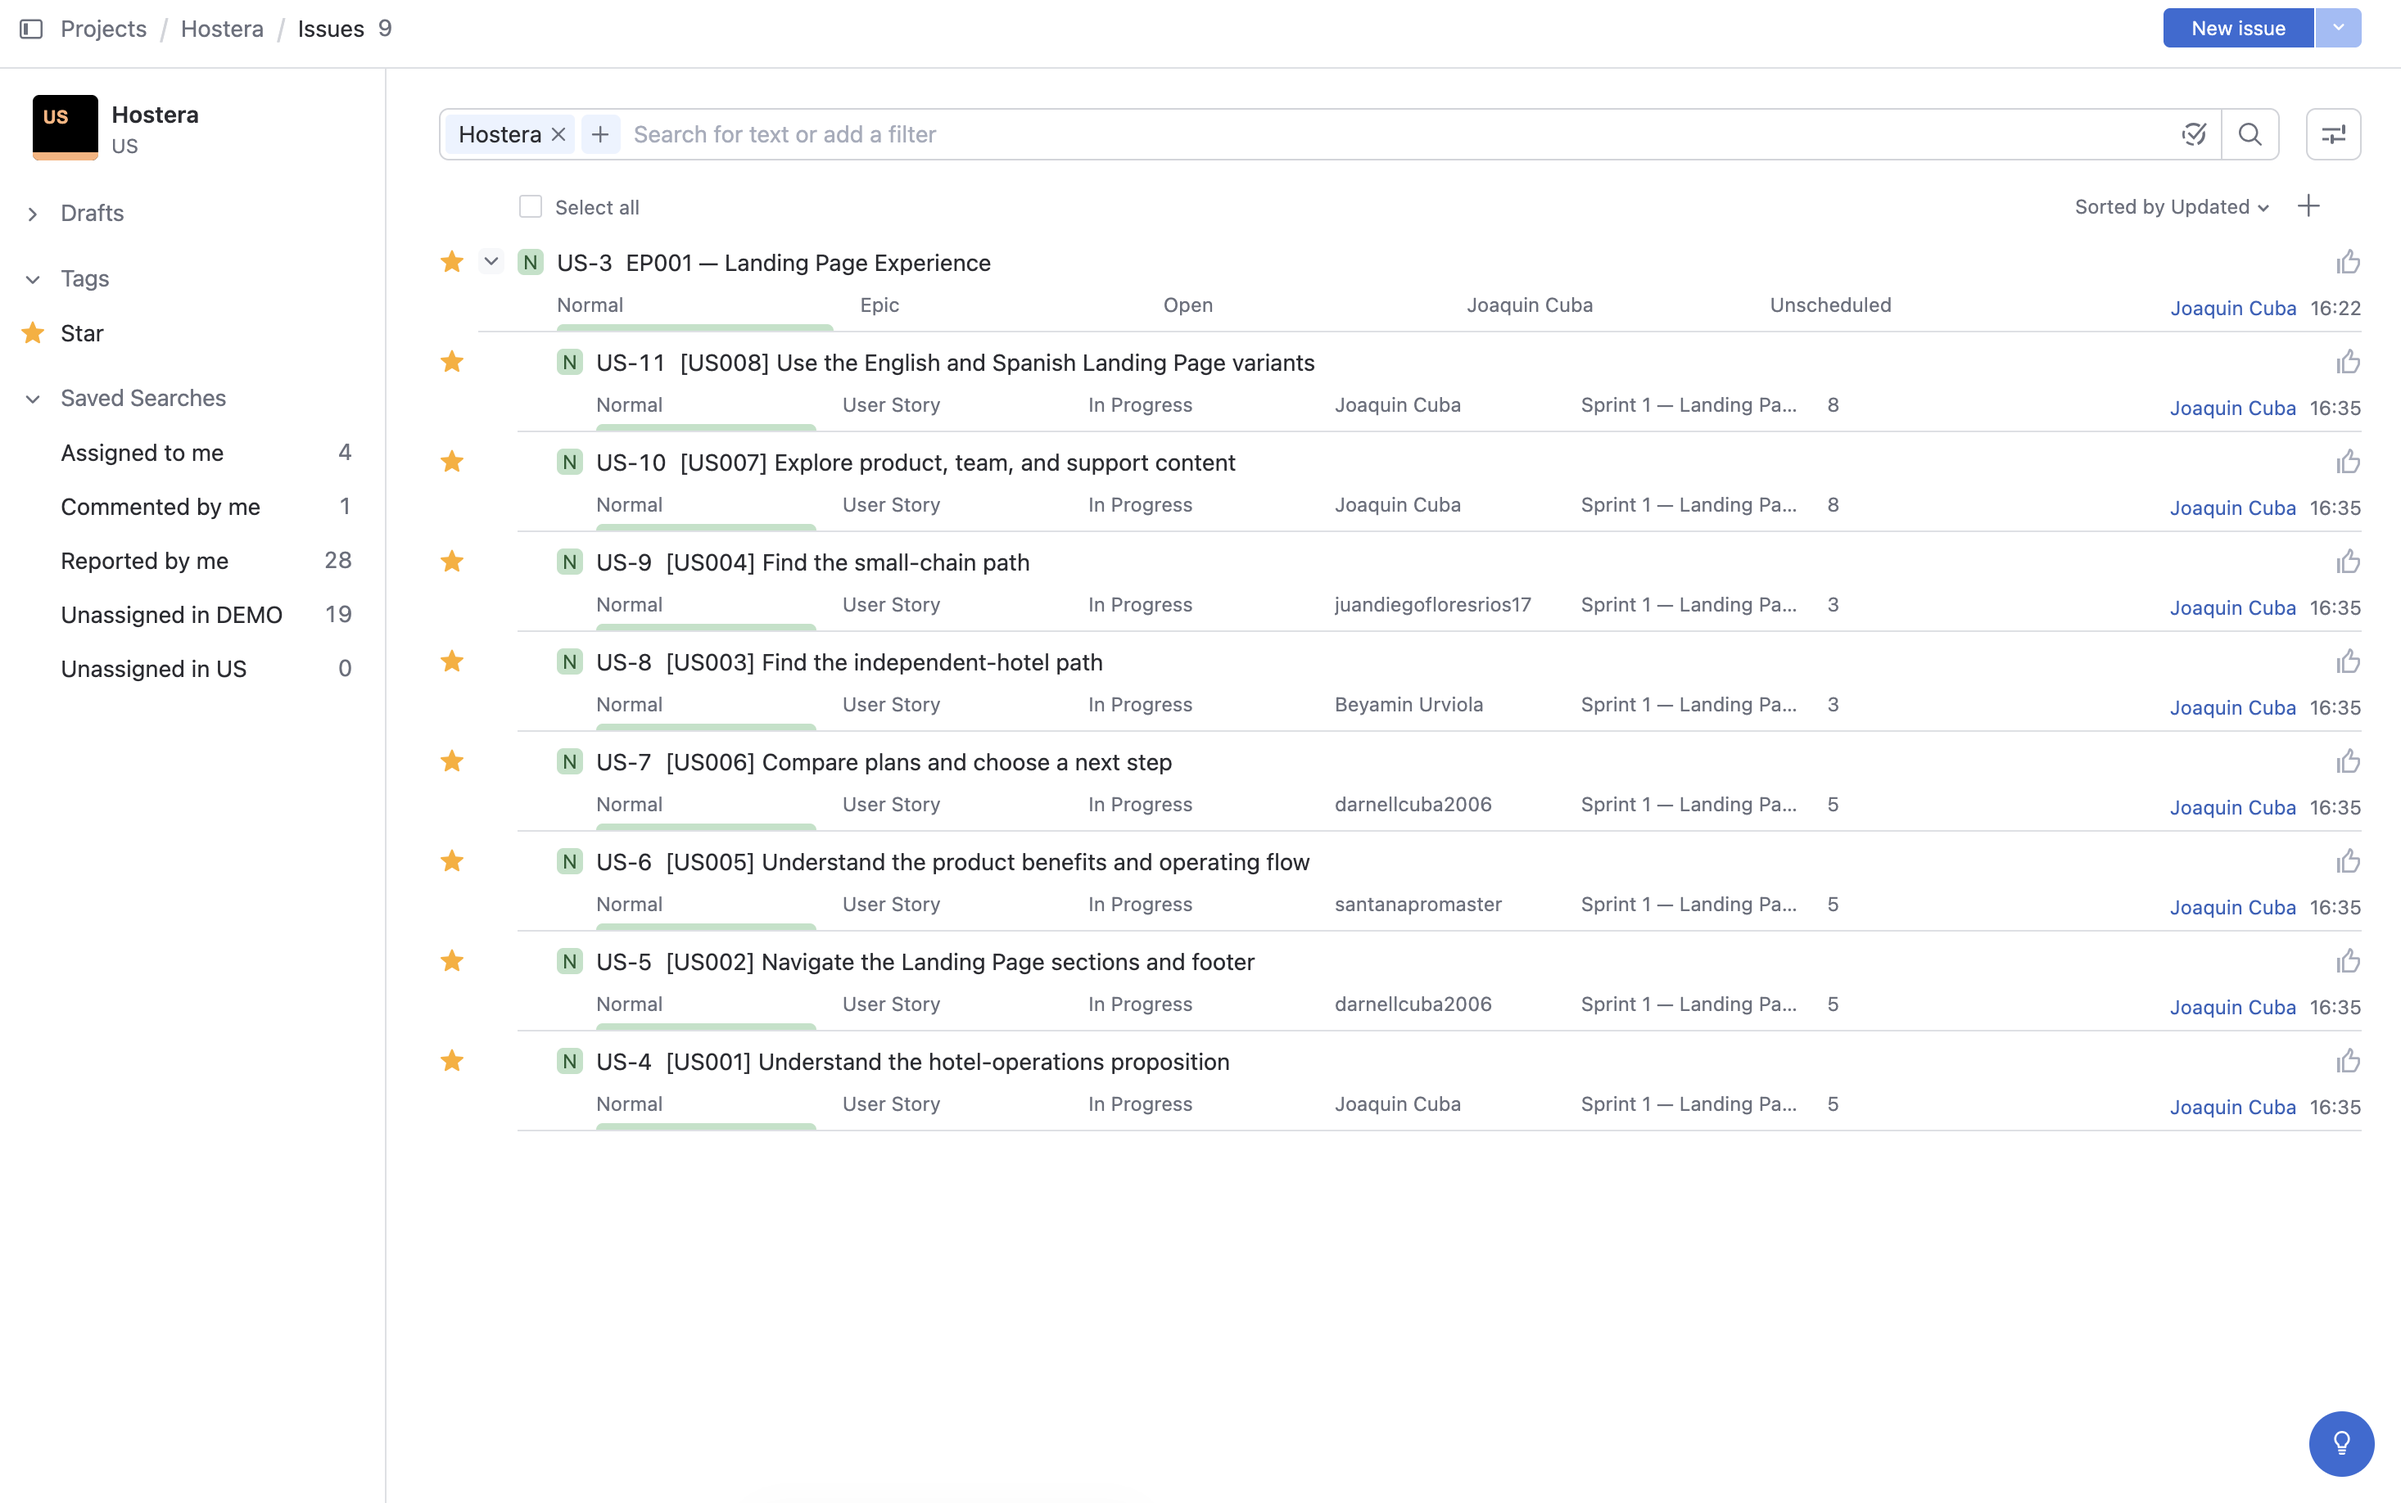
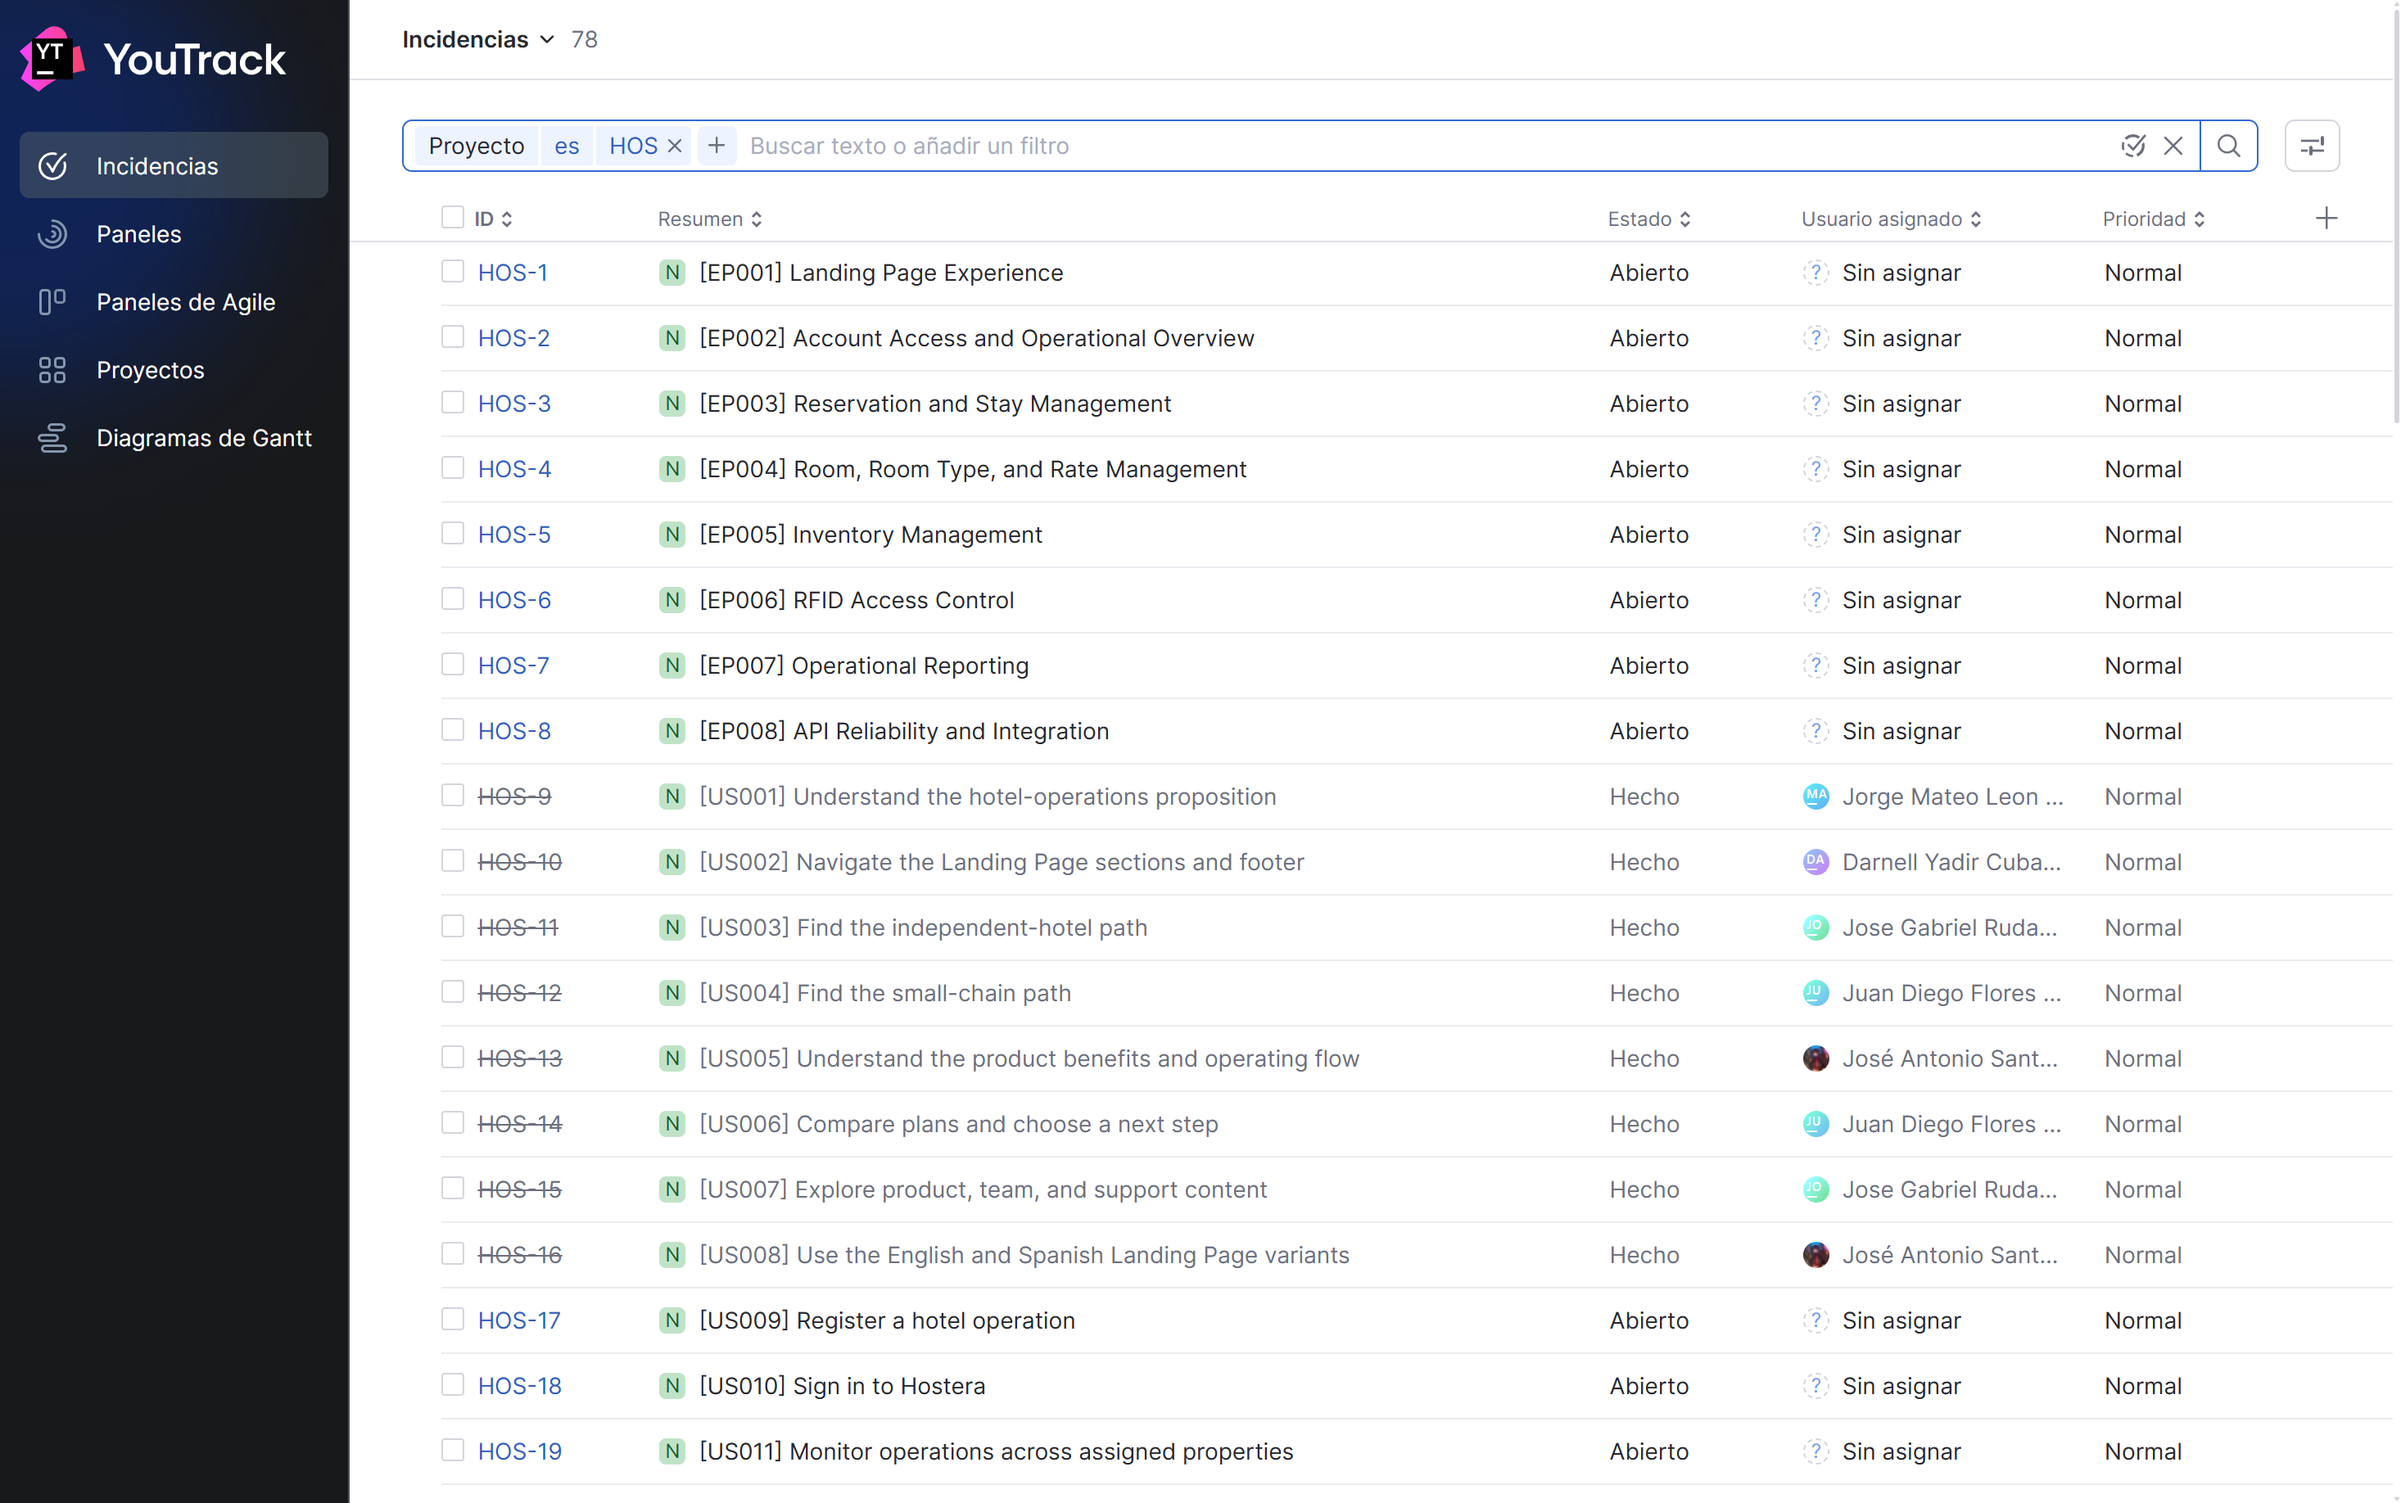
docs(tracking): migrate the YouTrack board to the team instance
Move the project tracking off the retired jqcuba.youtrack.cloud instance,
which belonged to a former member and held only 9 of the 78 backlog items
documented in this report, four of them assigned to people who left the
team.

Rebuild the tracker at santanapromaster.youtrack.cloud in project HOS from
the report itself: 8 epics, 33 user stories, 17 technical stories and the
20 Sprint 1 work-items, with their story points, states, assignees and the
epic and story hierarchy.

Replace the two YouTrack screenshots, which until now were the same file
serving two different captions, and repoint the four references.

diff --git a/README.md b/README.md
@@ -1689,7 +1689,7 @@ para su seguimiento, priorización y estimación.
 
 *Figura 3.3. Listado general del Product Backlog de Hostera en YouTrack.*
 
-El Product Backlog puede consultarse en el [Agile Board de Hostera en YouTrack](https://jqcuba.youtrack.cloud/projects/US/agiles/204-1/218-5).
+El Product Backlog puede consultarse en el [proyecto Hostera en YouTrack](https://santanapromaster.youtrack.cloud/issues?q=project:%20HOS).
 
 # Capítulo IV: Product Design
 
@@ -3347,7 +3347,7 @@ las herramientas locales se instalan desde sus canales oficiales de distribució
 | Producto | Propósito en Hostera | Ruta de referencia | Convención de configuración o uso |
 | --- | --- | --- | --- |
 | GitHub | Aloja el repositorio del equipo, los repositorios de producto, los issues y el historial de revisiones. | [Repositorio del equipo Team Coworkers](https://github.com/Team-Coworkers) | Los cambios se realizan en ramas de trabajo y se integran mediante el flujo Git Flow descrito en la sección 5.1.2. |
-| YouTrack | Gestiona el Product Backlog y realiza el seguimiento de las historias de usuario y los ítems de trabajo. | [Agile Board de Hostera](https://jqcuba.youtrack.cloud/projects/US/agiles/204-1/218-5) | El trabajo se asocia a un ítem del backlog antes de su implementación y revisión. |
+| YouTrack | Gestiona el Product Backlog y realiza el seguimiento de las historias de usuario y los ítems de trabajo. | [Agile Board de Hostera](https://santanapromaster.youtrack.cloud/agiles/204-1/218-3) | El trabajo se asocia a un ítem del backlog antes de su implementación y revisión. |
 | Figma | Elabora y comparte los wireflows, prototipos y mock-ups de las aplicaciones web. | [Prototipos de las aplicaciones web de Hostera](https://www.figma.com/design/3KIDTsjWUCaBv93Xa1jxOI/Hostera-%C2%B7-Web-Application-Prototypes) | Los cambios de diseño se mantienen en los archivos compartidos de Hostera y se referencian desde el informe. |
 | UXPressia | Elabora los artefactos de impact mapping utilizados para relacionar objetivos, actores, impactos e historias de usuario. | — | Los diagramas exportados se versionan junto con el informe cuando se utilizan como evidencia. |
 | Pandoc | Convierte `README.md` y sus recursos locales en el entregable PDF. | Instalación local; la configuración y ejecución están documentadas en `README.md`. | La compilación se ejecuta con `bash scripts/build-pdf.sh`; el archivo generado `report.pdf` permanece sin seguimiento. |
@@ -3641,14 +3641,14 @@ El Sprint Backlog 1 descompone el objetivo de implementar la experiencia complet
 la Landing Page en tareas concretas para las ocho User Stories de `EP001`. El Board
 de YouTrack se utilizó para registrar las historias, sus responsables, los Story
 Points y su pertenencia al Sprint 1. La [vista pública del Board de Hostera en
-YouTrack](https://jqcuba.youtrack.cloud/projects/US/agiles/204-1/218-5) contiene el
+YouTrack](https://santanapromaster.youtrack.cloud/agiles/204-1/218-3) contiene el
 seguimiento de estas User Stories.
 
 <img src="assets/chapter-5/sprint-1-youtrack-board.png" alt="Board de YouTrack con las User Stories de la Epic 1 asignadas al Sprint 1 de la Landing Page" style="width:100%; height:auto;"/>
 
 *Figura 5.2. Board de YouTrack con las User Stories asignadas al Sprint 1 de la Landing Page.*
 
-La captura corresponde al seguimiento del Board durante el sprint. La tabla siguiente
+La captura corresponde al Board al cierre del Sprint 1. La tabla siguiente
 presenta la descomposición de trabajo y el estado al cierre del Sprint 1. Las horas
 indicadas son estimaciones de planificación para cada Work-Item/Task y no sustituyen
 la estimación relativa en Story Points de cada User Story.
@@ -3995,5 +3995,5 @@ This is program for AV2 (not in AV1)
 - **Repositorio del informe.** [Hostera Project Report en GitHub](https://github.com/Team-Coworkers/Hostera-Project-Report-v2)
 - **Repositorio de la Landing Page.** [Landing Page de Hostera en GitHub](https://github.com/Team-Coworkers/landing-page-main)
 - **Landing Page desplegada.** [Abrir Landing Page](https://team-coworkers.github.io/landing-page-main/)
-- **Board de seguimiento.** [Hostera en YouTrack](https://jqcuba.youtrack.cloud/projects/US/agiles/204-1/218-5)
+- **Board de seguimiento.** [Hostera en YouTrack](https://santanapromaster.youtrack.cloud/agiles/204-1/218-3)
 - **Prototipo de Web Application.** [Hostera · Web Application Prototypes en Figma](https://www.figma.com/design/3KIDTsjWUCaBv93Xa1jxOI/Hostera-%C2%B7-Web-Application-Prototypes)

diff --git a/CHANGELOG.md b/CHANGELOG.md
@@ -48,6 +48,16 @@ The format is based on [Keep a Changelog](https://keepachangelog.com/en/1.0.0/) 
 
 - Recaptured the GitHub Pages deployment evidence from `Team-Coworkers/landing-page-main`, replacing the screenshot that still showed the retired repository in sections 5.1.4 and 5.2.1.7.
 
+## [0.11.0] - 2026-09-19
+
+### Changed
+
+- Migrated the project tracking from the retired `jqcuba.youtrack.cloud` instance to the team instance at `santanapromaster.youtrack.cloud`, project `HOS`.
+- Rebuilt the tracker from the report itself: 8 epics, 33 user stories, 17 technical stories and the 20 Sprint 1 work-items, with their story points, states, assignees and the epic and story hierarchy. The retired instance held only 9 of these 78 items and assigned four of them to members who left the team.
+- Pointed the Product Backlog reference to the full issue list and the remaining three references to the Sprint 1 agile board.
+- Replaced the two YouTrack screenshots, which until now were the same file used for both figures: figure 3.3 is the issue list of the 78 backlog items and figure 5.2 is the Sprint 1 agile board.
+- Corrected the figure 5.2 note, which described the capture as taken during the sprint although it shows the board at sprint close.
+
 ## [0.10.0] - 2026-09-19
 
 ### Added
